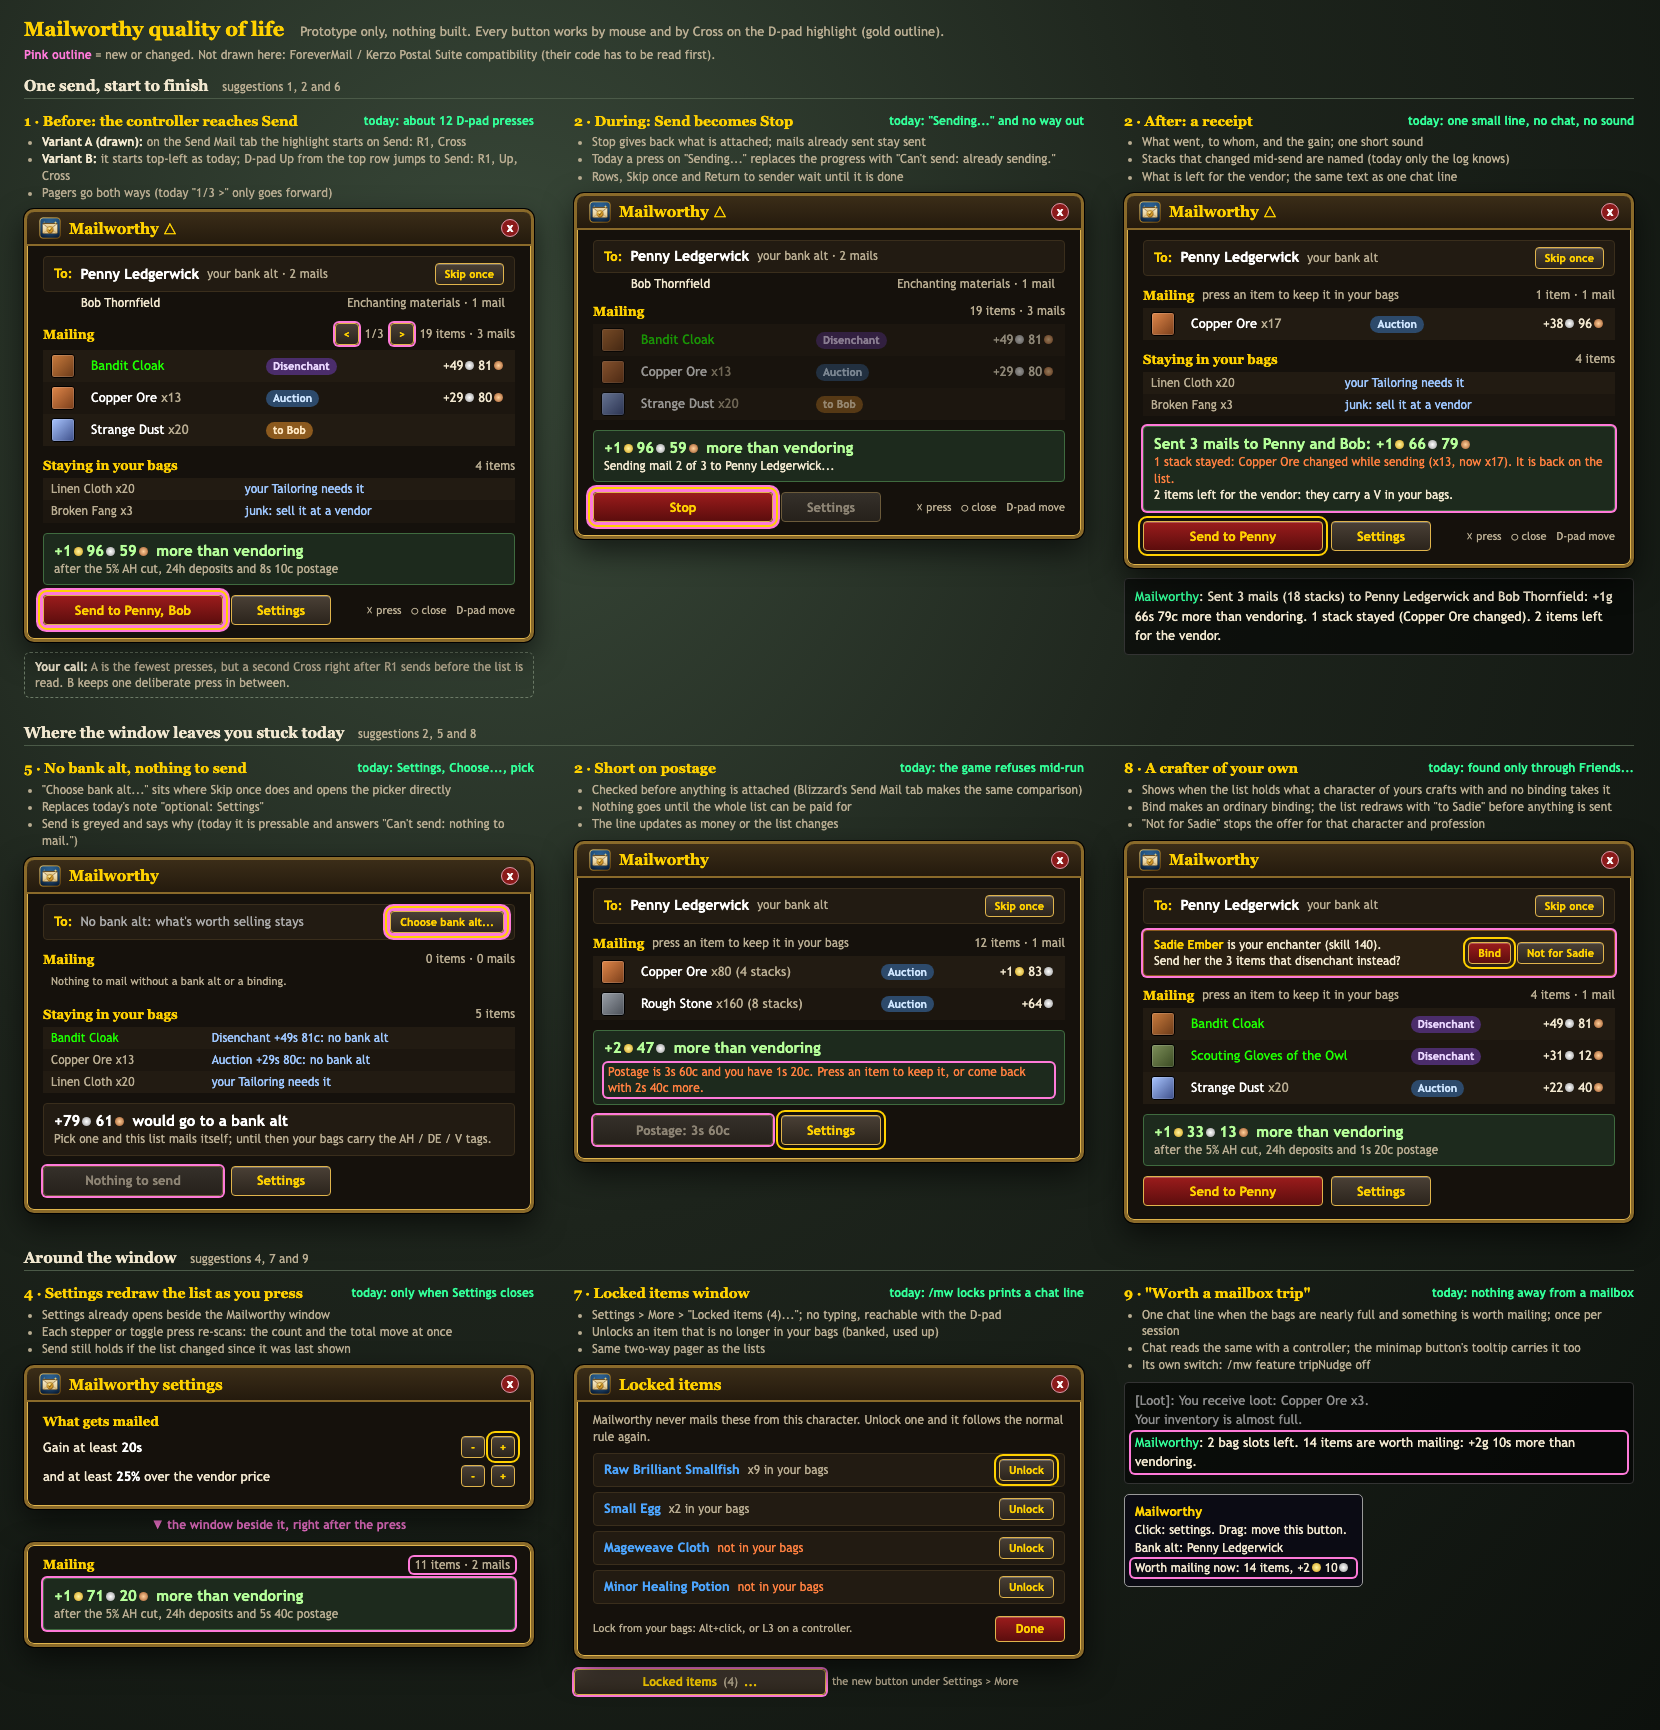
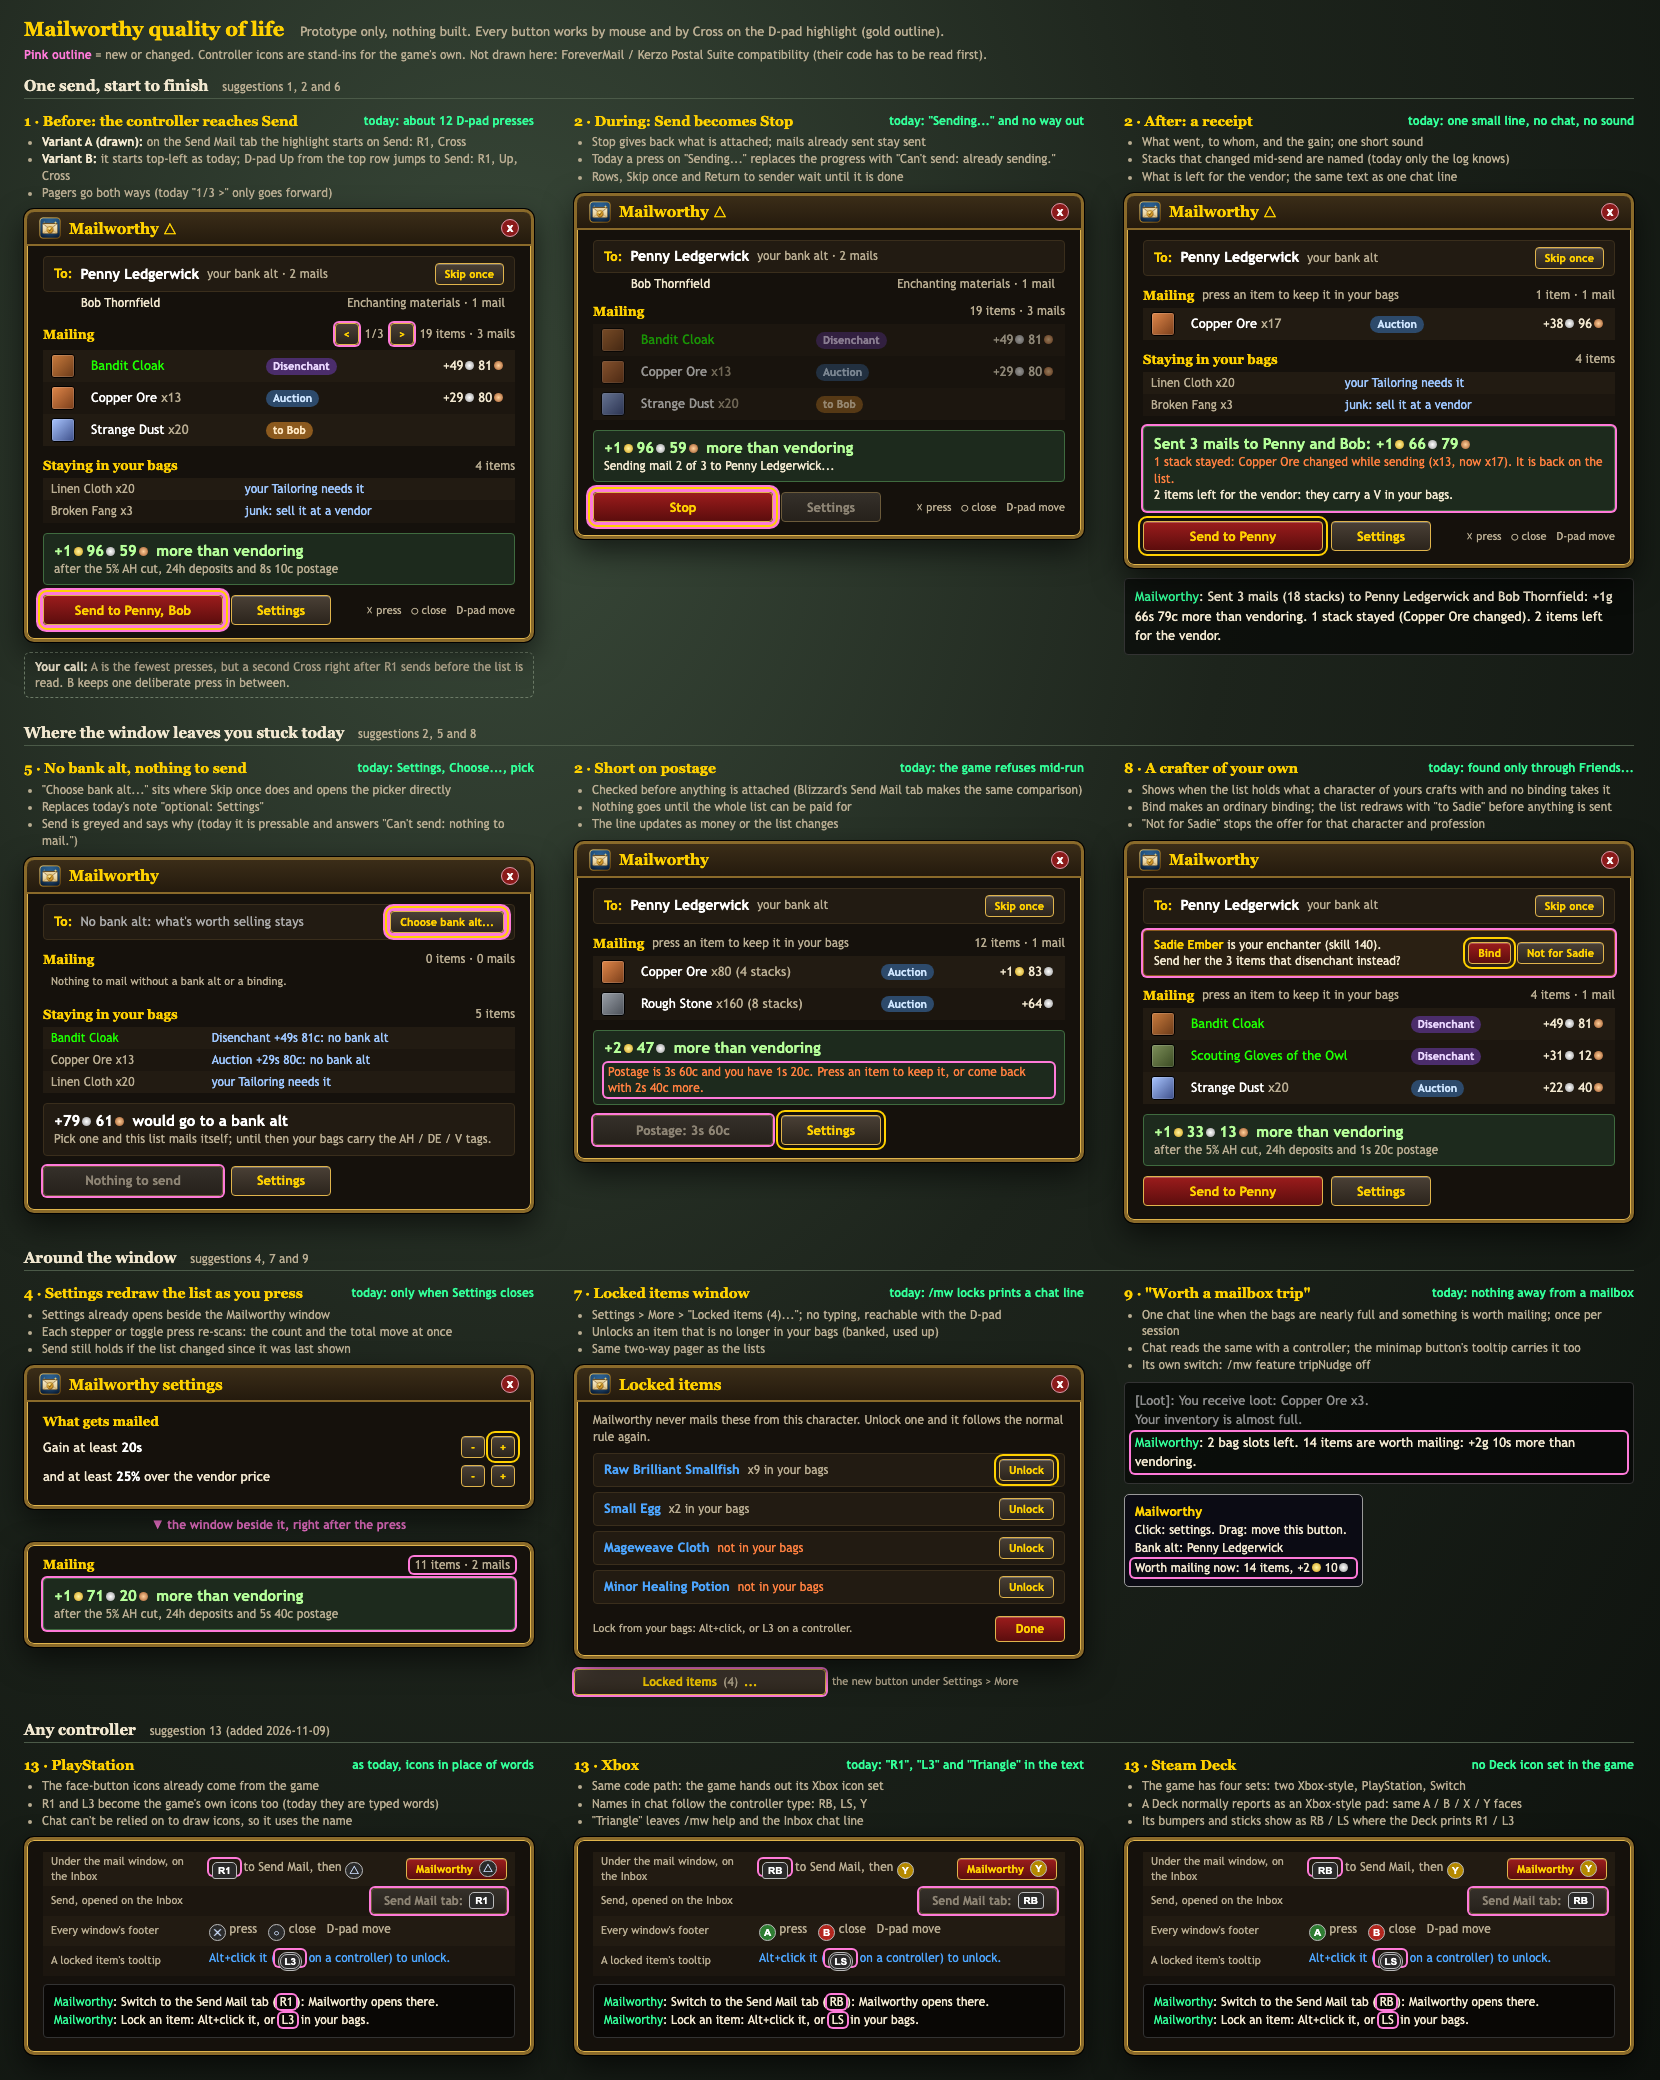
docs: QoL prototype adds button names by controller (Xbox, Steam Deck)
Operator, 2026-11-09: "do we support xbox controller glyphs? that would be a nice add",
"and steam deck". The icons already follow the controller (Blizzard's icon sets); the
row shows the typed "R1" / "L3" / "Triangle" replaced by the game's icons and, in chat,
by the controller's own names. Prototype only.

diff --git a/media/qol-prototype.html b/media/qol-prototype.html
@@ -7,7 +7,7 @@
      Row 1: one send, before / during / after (controller reach to Send, Stop, the receipt).
      Row 2: the states that dead-end today (no bank alt, short on postage, a crafter of your own).
      Row 3: away from the Send button (settings redraw the list, the locked items window, the
-     mailbox-trip line). Rendered to media/qol-prototype.png by tools/build-icons.sh. The names
+     mailbox-trip line). Row 4: button names on PlayStation, Xbox and Steam Deck. Rendered to media/qol-prototype.png by tools/build-icons.sh. The names
      are made up (same cast as ux-pass-prototype.html). -->
 <style>
   :root {
@@ -16,10 +16,10 @@
     --mint: #33ff99; --note: #9ec7ff; --warn: #ff8040; --new: #ff7ad9;
   }
   * { box-sizing: border-box; }
-  /* Authored at 1660 x 1730 (the PNG's size): three columns. In a narrower window the
+  /* Authored at 1660 x 2080 (the PNG's size): three columns. In a narrower window the
      columns wrap to two or one and the page scrolls (no script: it also works in a static preview). */
   html { margin: 0; overflow: auto; }
-  body { margin: 0; max-width: 1660px; min-height: 1730px; }
+  body { margin: 0; max-width: 1660px; min-height: 2080px; }
   body {
     font: 13px/1.35 "Trebuchet MS", "Segoe UI", Arial, sans-serif; color: var(--text);
     background: radial-gradient(ellipse at 30% 20%, #3a4a3a 0%, #1d241c 45%, #0d110d 100%);
@@ -145,6 +145,15 @@
   .new { box-shadow: 0 0 0 2px var(--new) !important; border-radius: 4px; }
   .nav.new { box-shadow: 0 0 0 7px var(--new) !important; }
   .total .new { margin-top: 5px; padding: 1px 4px; }
+  .pad { padding-top: 12px; }
+  .padline { display: flex; align-items: center; gap: 8px; min-height: 30px; padding: 2px 8px; }
+  .padline:nth-child(odd) { background: var(--row); } .padline:nth-child(even) { background: var(--row-alt); }
+  .padline .where { color: var(--dim); font-size: 11px; width: 150px; flex: none; }
+  .padline .btn { margin-left: auto; }
+  .gp { display: inline-grid; place-items: center; min-width: 17px; height: 17px; padding: 0 3px; border-radius: 9px; vertical-align: -3px;
+    background: #2a2a2a; border: 1px solid #bbb; color: #fff; font: bold 10px Arial, sans-serif; }
+  .gp.sh { border-radius: 5px 5px 3px 3px; padding: 0 5px; } .gp.st { border-style: double; border-width: 3px; height: 19px; }
+  .gp.ps { color: #cfe0ff; } .gp.xa { background: #2e7d32; } .gp.xb { background: #b3261e; } .gp.xy { background: #b58900; }
   .tip .h { color: var(--gold); font-weight: bold; font-size: 13px; }
 </style>
 </head>
@@ -152,7 +161,7 @@
 <div class="page">
   <div class="banner"><h1>Mailworthy quality of life</h1>
     <span>Prototype only, nothing built. Every button works by mouse and by Cross on the D-pad highlight (gold outline).</span></div>
-  <div class="key"><b>Pink outline</b> = new or changed. Not drawn here: ForeverMail / Kerzo Postal Suite compatibility (their code has to be read first).</div>
+  <div class="key"><b>Pink outline</b> = new or changed. Controller icons are stand-ins for the game's own. Not drawn here: ForeverMail / Kerzo Postal Suite compatibility (their code has to be read first).</div>
 
   <div class="grid">
     <!-- ============ Row 1: one send ============ -->
@@ -412,6 +421,57 @@
         <div>Click: settings. Drag: move this button.</div>
         <div>Bank alt: Penny Ledgerwick</div>
         <div class="new" style="padding:0 4px; margin:2px -4px">Worth mailing now: 14 items, <span class="money">+2<i class="g"></i>10<i class="s"></i></span></div>
+      </div>
+    </div>
+
+    <!-- ============ Row 4: any controller ============ -->
+    <div class="rowhead">Any controller <small>suggestion 13 (added 2026-11-09)</small></div>
+
+    <div>
+      <div class="cap"><b>13 · PlayStation</b><span class="size">as today, icons in place of words</span>
+        <ul><li>The face-button icons already come from the game</li><li>R1 and L3 become the game's own icons too (today they are typed words)</li><li>Chat can't be relied on to draw icons, so it uses the name</li></ul></div>
+      <div class="frame">
+        <div class="content pad ">
+          <div class="padline"><span class="where">Under the mail window, on the Inbox</span>
+            <span class="hint" style="font-size:12px"><span class="new" style="padding:1px 3px"><span class="gp sh">R1</span></span> to Send Mail, then <span class="gp ps">&#9651;</span></span><span class="btn small">Mailworthy <span class="gp ps">&#9651;</span></span></div>
+          <div class="padline"><span class="where">Send, opened on the Inbox</span><span class="btn off new">Send Mail tab: <span class="gp sh">R1</span></span></div>
+          <div class="padline"><span class="where">Every window's footer</span><span class="hint" style="font-size:12px"><span class="gp ps">&#10005;</span> press &nbsp; <span class="gp ps">&#9675;</span> close &nbsp; D-pad move</span></div>
+          <div class="padline"><span class="where">A locked item's tooltip</span><span class="lockname" style="font-weight:normal;font-size:12px">Alt+click it (<span class="new" style="padding:1px 3px"><span class="gp st">L3</span></span> on a controller) to unlock.</span></div>
+          <div class="chat" style="margin-top:8px;font-size:12px"><span class="mw">Mailworthy</span>: Switch to the Send Mail tab (<span class="new" style="padding:0 3px">R1</span>): Mailworthy opens there.<br>
+            <span class="mw">Mailworthy</span>: Lock an item: Alt+click it, or <span class="new" style="padding:0 3px">L3</span> in your bags.</div>
+        </div>
+      </div>
+    </div>
+
+    <div>
+      <div class="cap"><b>13 · Xbox</b><span class="size">today: "R1", "L3" and "Triangle" in the text</span>
+        <ul><li>Same code path: the game hands out its Xbox icon set</li><li>Names in chat follow the controller type: RB, LS, Y</li><li>"Triangle" leaves /mw help and the Inbox chat line</li></ul></div>
+      <div class="frame">
+        <div class="content pad ">
+          <div class="padline"><span class="where">Under the mail window, on the Inbox</span>
+            <span class="hint" style="font-size:12px"><span class="new" style="padding:1px 3px"><span class="gp sh">RB</span></span> to Send Mail, then <span class="gp xy">Y</span></span><span class="btn small">Mailworthy <span class="gp xy">Y</span></span></div>
+          <div class="padline"><span class="where">Send, opened on the Inbox</span><span class="btn off new">Send Mail tab: <span class="gp sh">RB</span></span></div>
+          <div class="padline"><span class="where">Every window's footer</span><span class="hint" style="font-size:12px"><span class="gp xa">A</span> press &nbsp; <span class="gp xb">B</span> close &nbsp; D-pad move</span></div>
+          <div class="padline"><span class="where">A locked item's tooltip</span><span class="lockname" style="font-weight:normal;font-size:12px">Alt+click it (<span class="new" style="padding:1px 3px"><span class="gp st">LS</span></span> on a controller) to unlock.</span></div>
+          <div class="chat" style="margin-top:8px;font-size:12px"><span class="mw">Mailworthy</span>: Switch to the Send Mail tab (<span class="new" style="padding:0 3px">RB</span>): Mailworthy opens there.<br>
+            <span class="mw">Mailworthy</span>: Lock an item: Alt+click it, or <span class="new" style="padding:0 3px">LS</span> in your bags.</div>
+        </div>
+      </div>
+    </div>
+
+    <div>
+      <div class="cap"><b>13 · Steam Deck</b><span class="size">no Deck icon set in the game</span>
+        <ul><li>The game has four sets: two Xbox-style, PlayStation, Switch</li><li>A Deck normally reports as an Xbox-style pad: same A / B / X / Y faces</li><li>Its bumpers and sticks show as RB / LS where the Deck prints R1 / L3</li></ul></div>
+      <div class="frame">
+        <div class="content pad ">
+          <div class="padline"><span class="where">Under the mail window, on the Inbox</span>
+            <span class="hint" style="font-size:12px"><span class="new" style="padding:1px 3px"><span class="gp sh">RB</span></span> to Send Mail, then <span class="gp xy">Y</span></span><span class="btn small">Mailworthy <span class="gp xy">Y</span></span></div>
+          <div class="padline"><span class="where">Send, opened on the Inbox</span><span class="btn off new">Send Mail tab: <span class="gp sh">RB</span></span></div>
+          <div class="padline"><span class="where">Every window's footer</span><span class="hint" style="font-size:12px"><span class="gp xa">A</span> press &nbsp; <span class="gp xb">B</span> close &nbsp; D-pad move</span></div>
+          <div class="padline"><span class="where">A locked item's tooltip</span><span class="lockname" style="font-weight:normal;font-size:12px">Alt+click it (<span class="new" style="padding:1px 3px"><span class="gp st">LS</span></span> on a controller) to unlock.</span></div>
+          <div class="chat" style="margin-top:8px;font-size:12px"><span class="mw">Mailworthy</span>: Switch to the Send Mail tab (<span class="new" style="padding:0 3px">RB</span>): Mailworthy opens there.<br>
+            <span class="mw">Mailworthy</span>: Lock an item: Alt+click it, or <span class="new" style="padding:0 3px">LS</span> in your bags.</div>
+        </div>
       </div>
     </div>
   </div>

diff --git a/docs/HANDOFF.md b/docs/HANDOFF.md
@@ -37,7 +37,7 @@ must never break the game.
 | **Bindings UI** (binding rows in the mail window, the friends window) | [media/bindings-prototype.html](../media/bindings-prototype.html) -> [.png](../media/bindings-prototype.png) |
 | **UX pass** (current layout of the mailbox, settings and friends windows, 2026-11-06) | [media/ux-pass-prototype.html](../media/ux-pass-prototype.html) -> [.png](../media/ux-pass-prototype.png) |
 | **Guild template UI** (member and guild master views, 2026-11-07) | [media/guild-template-prototype.html](../media/guild-template-prototype.html) -> [.png](../media/guild-template-prototype.png) |
-| **Quality-of-life pass** (prototype only, nothing built; operator's picks 2026-11-09: controller reach to Send, Stop and a receipt, postage check, Choose bank alt on the To line, two-way pagers, locked items window, settings redraw the list, own-crafter binding offer, mailbox-trip line) | [media/qol-prototype.html](../media/qol-prototype.html) -> [.png](../media/qol-prototype.png) |
+| **Quality-of-life pass** (prototype only, nothing built; operator's picks 2026-11-09: controller reach to Send, Stop and a receipt, postage check, Choose bank alt on the To line, two-way pagers, locked items window, settings redraw the list, own-crafter binding offer, mailbox-trip line, button names by controller: Xbox and Steam Deck) | [media/qol-prototype.html](../media/qol-prototype.html) -> [.png](../media/qol-prototype.png) |
 | **CurseForge gallery** (5 images of the shipped UI, 2026-11-07; keep them in step when a window changes) | [media/gallery/](../media/gallery/) (`*.html` -> `*.png`, 1600x900) |
 | CurseForge description (paste into the project page) | [media/curseforge-description.html](../media/curseforge-description.html) |
 | Wiki pages carried with a PR (copied into the GitHub wiki after merge) | [docs/wiki/](wiki/README.md) |
